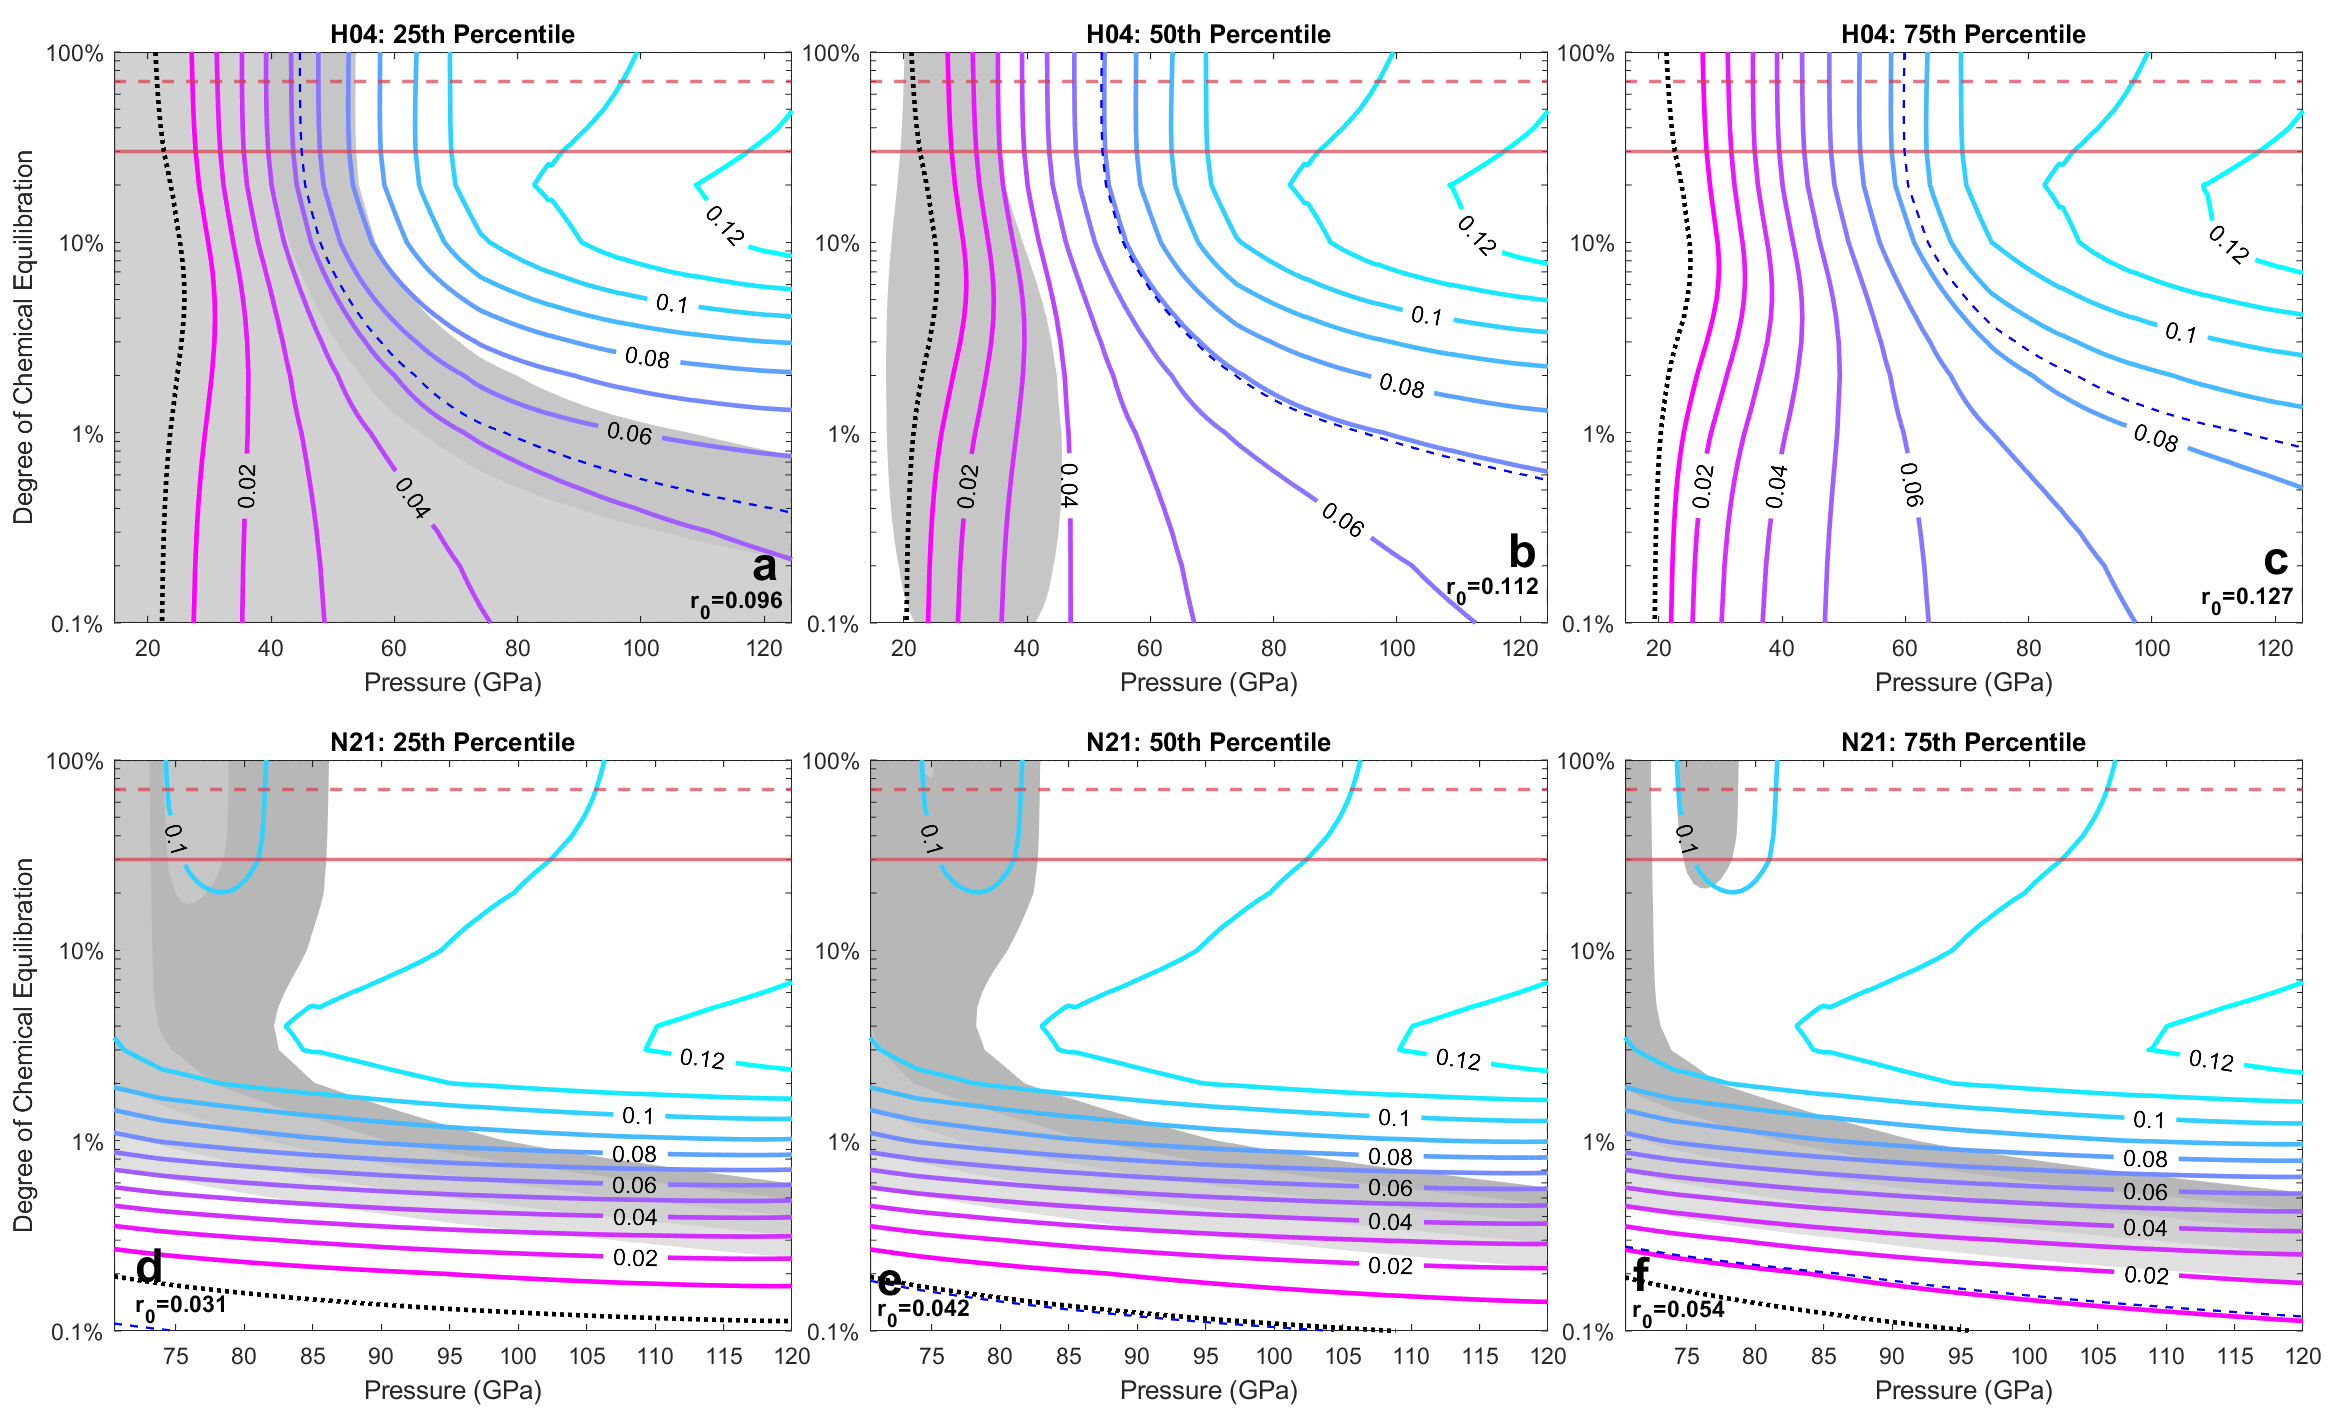
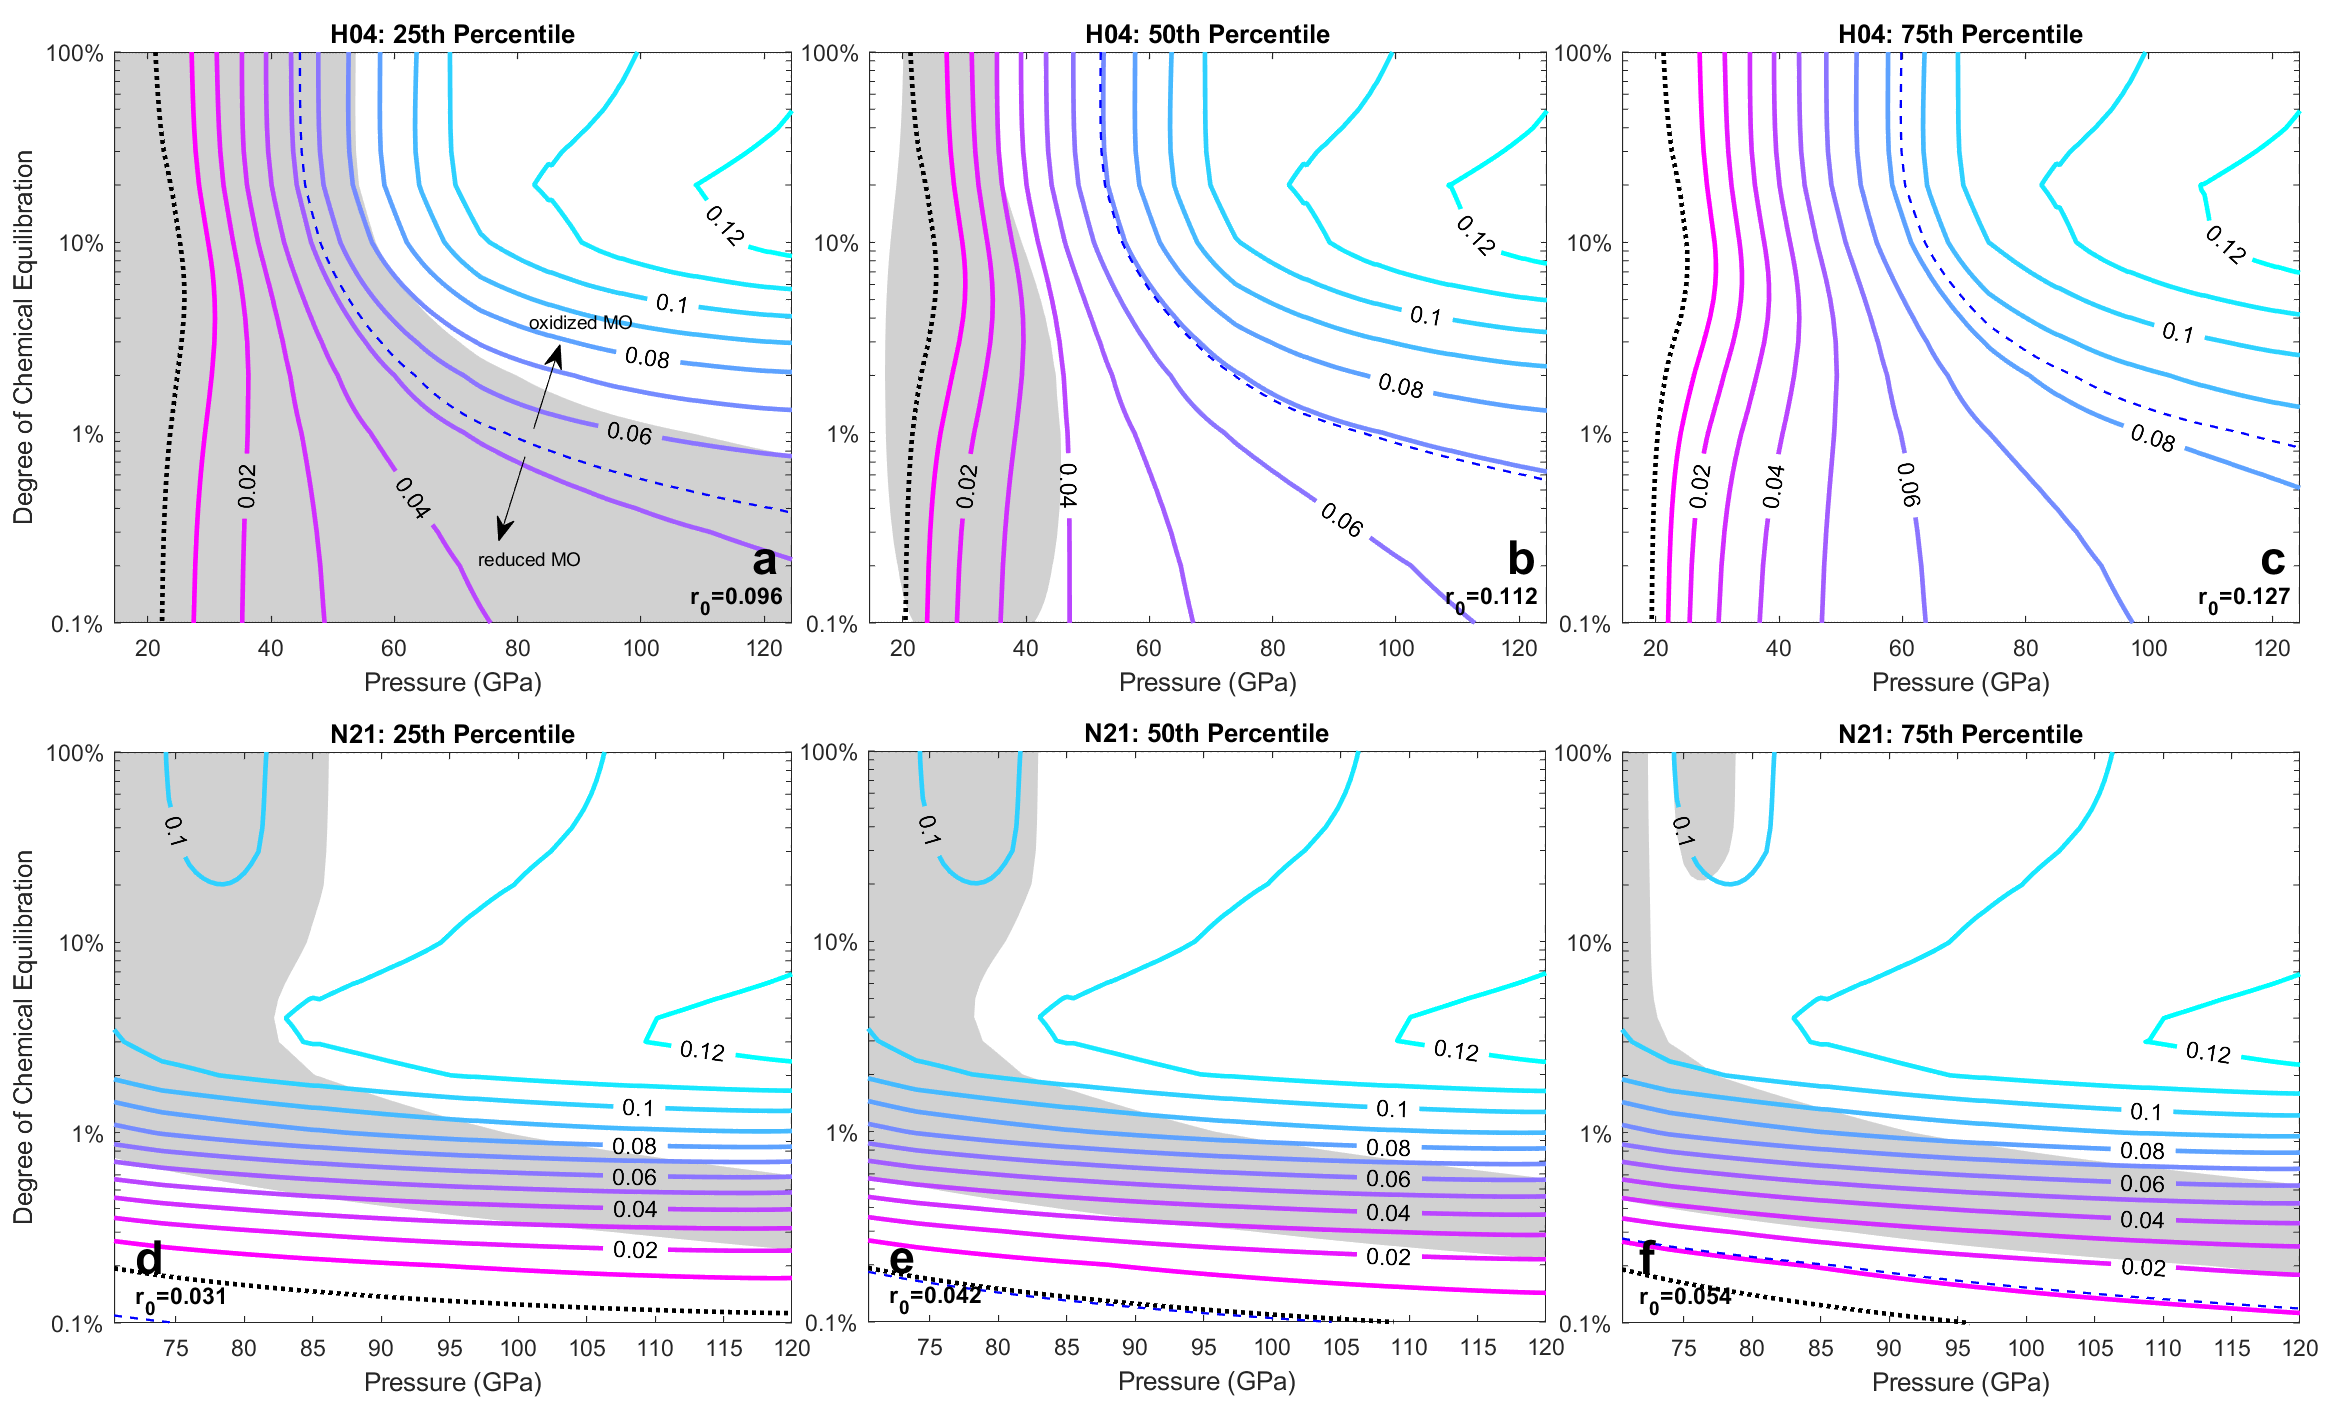
minor Nov updates

diff --git a/EffvsD_fig.m b/EffvsD_fig.m
@@ -11,7 +11,7 @@ if reset == 1
     
     xlsx = '\db\Rain_EffvsD_Tconst.xlsx';
     
-    data = readmatrix(xlsx, 'Sheet', 'H04_data', 'Range', 1);
+    data = readmatrix(xlsx, 'Sheet', 'N21_data', 'Range', 1);
     P = data(2,:)/1e9;
     eff = data(1,1:28);
  
@@ -41,17 +41,17 @@ if reset == 1
   
 end
 
-mix = H04_p75_mix-0.35/8.1;       %0.35% reduction in FeO1.5 after Cr oxi with 8.1% FeO* from Deng20 comp
-nomix = H04_p75_nomix-0.35/8.1;
+mix = N21_p75_mix-0.35/8.1;       %0.35% reduction in FeO1.5 after Cr oxi with 8.1% FeO* from Deng20 comp
+nomix = N21_p75_nomix-0.35/8.1;
 r0_val = 6;
-title_name = "H04: 75th Percentile";
-letter = "c";
+title_name = "N21: 75th Percentile";
+letter = "f";
 
 %Fe3/sumFe value BEFORE GI from modeling
 %     [0th    1st    5th    25th   50th   75th   95th   99th   100th]
 %Tconst method
-    r_0 = [0.0740,0.0786,0.0852,0.0970,0.1050,0.1125,0.1216,0.1244,0.1263];     %H04
-    %r_0 = [0.0241,0.0370,0.0422,0.0499,0.0552,0.0596,0.0669,0.0705,0.0719];     %N21
+    %r_0 = [0.0740,0.0786,0.0852,0.0970,0.1050,0.1125,0.1216,0.1244,0.1263];     %H04
+    r_0 = [0.0241,0.0370,0.0422,0.0499,0.0552,0.0596,0.0669,0.0705,0.0719];     %N21
 %Pmo method
     %r_0 = [0.0466,0.0593,0.0727,0.0964,0.1123,0.1270,0.1434,0.1461,0.1498];     %H04
     %r_0 = [0.0151,0.0184,0.0214,0.0312,0.0422,0.0544,0.0694,0.0744,0.0761];     %N21
@@ -62,7 +62,8 @@ letter = "c";
 %map = [0.88 0.88 0.88; 0.82 0.82 0.82; 0.78 0.78 0.78; 0.72 0.72 0.72; 1 1 1];
 %map = [0.82 0.82 0.82; 0.78 0.78 0.78; 0.72 0.72 0.72; 1 1 1];
 %map = [0.78 0.78 0.78; 0.72 0.72 0.72; 1 1 1; 1 1 1];
-map = [0.72 0.72 0.72; 1 1 1; 1 1 1];                                       % chosen mix contour colors
+%map = [0.72 0.72 0.72; 1 1 1; 1 1 1];                                       % chosen mix contour colors
+map = [0.82 0.82 0.82; 1 1 1];
 
 map_neg = [0 0 0];
 
@@ -73,7 +74,8 @@ eff_limit_high = 0.70;              % Z19, 70% for fast accretion (GT)
 %0.02 to 0.06 contours
 c = linspace(0.01, 0.2, 20);
 ct = [0.02 0.04 0.06 0.08 0.10 0.12 0.14 0.16];
-c0 = [0.02 0.03 0.04 0.05 0.06];
+%c0 = [0.02 0.03 0.04 0.05 0.06];
+c0 = [0.02 0.06];
 c_neg = [-0.05 0];                                  %for negative Fe3/sumFe limit
 c_r0 = [-0.1, r_0(r0_val)-0.35/8.1];                %for original Fe3/sumFe value
 
@@ -86,8 +88,8 @@ contourf(ax1, P(1:size(mix,1)), log10(eff), mix', c0, 'LineWidth', 2, 'EdgeColor
 
 ax2 = axes;
 contour(ax2, P(1:size(nomix,1)), log10(eff), nomix', c, 'LineWidth', 2, 'ShowText', 'on', 'TextList', ct, 'LabelSpacing', 500, 'FaceColor', 'none');
-yline(log10(eff_limit_low), '-', 'Color', red, 'LineWidth', 1.5);
-yline(log10(eff_limit_high), '--', 'Color', red, 'LineWidth', 1.5);
+%yline(log10(eff_limit_low), '-', 'Color', red, 'LineWidth', 1.5);
+%yline(log10(eff_limit_high), '--', 'Color', red, 'LineWidth', 1.5);
 
 ax3 = axes;
 contour(ax3, P(1:size(nomix,1)), log10(eff), nomix', c_neg, 'LineWidth', 2, 'LineStyle', ':', 'FaceColor', 'none');
@@ -119,9 +121,15 @@ ax1.YTickLabel = {'0.1%' '' '' '' '' '' '' '' '' ...
     '1%' '' '' '' '' '' '' '' '' ...
     '10%' '' '' '' '' '' '' '' '' ...
     '100%'};
-%text(5, -2.8, "r_0=" + round(r_0(val),3), 'FontWeight', 'bold')
-%text(72, -2.88, "r_0=" + round(r_0(r0_val),3), 'FontWeight', 'bold')
-%text(72, -2.65, letter, 'FontWeight', 'bold', 'FontSize', 20)
-text(108, -2.88, "r_0=" + round(r_0(r0_val),3), 'FontWeight', 'bold')
-text(118, -2.65, letter, 'FontWeight', 'bold', 'FontSize', 20)
+%text(5, -2.8, "r_0=" + round(r_0(r0_val),3), 'FontWeight', 'bold')
+text(72, -2.88, "r_0=" + round(r_0(r0_val),3), 'FontWeight', 'bold')
+text(72, -2.65, letter, 'FontWeight', 'bold', 'FontSize', 20)
+%text(108, -2.88, "r_0=" + round(r_0(r0_val),3), 'FontWeight', 'bold')
+%text(118, -2.65, letter, 'FontWeight', 'bold', 'FontSize', 20)
+
+% annotation('textarrow',[0.6 0.57],[0.54 0.42])
+% text(81, -1.6,'reduced MO','FontSize',8)
+% annotation('textarrow',[0.61 0.64],[0.58 0.70])
+% text(85, -1.3,'oxidized MO','FontSize',8)
 title(ax1, title_name)
+

diff --git a/EffvsD_late_fig.m b/EffvsD_late_fig.m
@@ -9,7 +9,7 @@ reset = 0;
 if reset == 1
     clear;
     
-    xlsx = '\db\Rain_EffvsD_late_Tconst.xlsx';
+    xlsx = '\db\Rain_EffvsD_late_Pmo.xlsx';
     
     data = readmatrix(xlsx, 'Sheet', 'data', 'Range', 1);
     P = data(2,1:100)/1e9;      %just to ~50GPa
@@ -53,19 +53,19 @@ if reset == 1
     
 end
 
-mix = H04_5th_mix - 0.35/8.1;       %0.35% reduction in FeO1.5 after Cr oxi with 8.1% FeO*
-nomix = H04_5th_nomix - 0.35/8.1;
-r_0_idx = 2;                            %for r_0 to choose
-title_name = "H04: 5th Percentile";
-letter = "b";
+mix = H04_1st_mix - 0.35/8.1;       %0.35% reduction in FeO1.5 after Cr oxi with 8.1% FeO*
+nomix = H04_1st_nomix - 0.35/8.1;
+r_0_idx = 1;                            %for r_0 to choose
+title_name = "H04: 1st Percentile";
+letter = "a";
 
 %Fe3/sumFe value AFTER GI
 %Tconst method
          % 1st     5th     25th    50th
-    r_0 = [0.0862, 0.0949, 0.1078, 0.1177];   %H04
+    %r_0 = [0.0862, 0.0949, 0.1078, 0.1177];   %H04
     %r_0 =      [0.0949, 0.1030, 0.1134];      %N21 modeling
 %Pmo method
-    %r_0 = [0.0718, 0.0845, 0.1085, 0.1272];   %H04
+    r_0 = [0.0718, 0.0845, 0.1085, 0.1272];   %H04
     %r_0 =      [0.0918, 0.1040, 0.1194];      %N21
 %U2Q method
     %r_0 =      [0.0507, 0.0641, 0.0808];      %H04
@@ -82,13 +82,15 @@ r_0 = r_0(r_0_idx)-0.35/8.1;
 %map = [0.82 0.82 0.82; 0.78 0.78 0.78; 0.72 0.72 0.72; 1 1 1];
 %map = [0.72 0.72 0.72; 1 1 1; 1 1 1; 1 1 1; 1 1 1];
 %map = [0.82 0.82 0.82; 0.78 0.78 0.78; 0.72 0.72 0.72]; 
-map = [0.78 0.78 0.78; 0.72 0.72 0.72];         % chosen mix contour colors
+%map = [0.78 0.78 0.78; 0.72 0.72 0.72];         
+map = [0.82 0.82 0.82; 1 1 1];          % chosen mix contour colors
 
 map_neg = [0 0 0];
 
 c = linspace(0.005, 0.1, 20);
 ct = [0.01 0.02 0.03 0.04 0.05 0.06];
-c0 = [0.02 0.03 0.04 0.05 0.06];
+%c0 = [0.02 0.03 0.04 0.05 0.06];
+c0 = [0.02 0.06];
 c_neg = [-0.05 0];                      %for negative Fe3/sumFe limit
 c_r0 = [-0.1, r_0];                     %for original Fe3/sumFe value
 
@@ -132,5 +134,9 @@ ax1.YTickLabel = {'1%' '' '' '' '' '' '' '' '' ...
     '100%'};
 text(42, -1.87, "r_0=" + round(r_0,3), 'FontWeight', 'bold')
 text(47, -1.70, letter, 'FontWeight', 'bold', 'FontSize', 20)
+annotation('textarrow',[0.75 0.72],[0.44 0.32])
+text(40, -1.5,'reduced MO','FontSize',8)
+annotation('textarrow',[0.76 0.79],[0.48 0.60])
+text(40, -0.7,'oxidized MO','FontSize',8)
 title(ax1, title_name)
 

diff --git a/AccrModel_fig.m b/AccrModel_fig.m
@@ -1,0 +1,35 @@
+% EL 
+% 11/9/2023
+% Get pics of accretion models
+
+
+model1 = 4;            %accretion models, 1 = W90(high), 2 = W90(low), 3 = H00, 4 = H04, 5 = N21
+model2 = 5;            
+
+[t, Accr_model1] = getAccrModel(model1);
+[~, Accr_model2] = getAccrModel(model2);
+
+figure(1);
+subplot(1,2,1)
+box on
+plot(t, Accr_model1, 'k', "LineWidth", 1.5)
+xticks([0 20 40 60 80 100])
+yticks([0 0.2 0.4 0.6 0.8 1.0])
+ax = gca;
+ax.TickLength = [0.02 0];
+ax.XTickLabelRotation = 0;
+ax.Layer = 'top';
+xlabel("Time (Myr)")
+ylabel("Mass fraction")
+
+subplot(1,2,2)
+box on
+plot(t, Accr_model2, 'k', "LineWidth", 1.5)
+xticks([0 20 40 60 80 100])
+yticks([0 0.2 0.4 0.6 0.8 1.0])
+ax = gca;
+ax.TickLength = [0.02 0];
+ax.XTickLabelRotation = 0;
+ax.Layer = 'top';
+xlabel("Time (Myr)")
+ylabel("Mass fraction")
